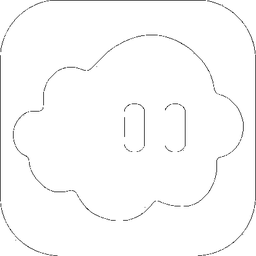
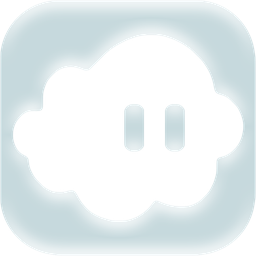
Stabilize client previews with official Dialedbase mark
Fix GSAP HMR opacity stickiness (black blank CTAs), drop Home pill
from Kim nav, and ship the official Dialedbase logo in footer credits.

diff --git a/_apps/kim-logistics/src/components/HeroStage.tsx b/_apps/kim-logistics/src/components/HeroStage.tsx
@@ -19,19 +19,24 @@ export function HeroStage() {
       if (!root.current || !media.current || !copy.current) return;
       if (window.matchMedia("(prefers-reduced-motion: reduce)").matches) return;
 
+      const lines = copy.current.querySelectorAll<HTMLElement>("[data-hero-line]");
+      // Never leave opacity stuck after HMR — reset first.
+      gsap.set(lines, { clearProps: "opacity,transform,filter" });
+
       const tl = gsap.timeline({ defaults: { ease: "power3.out" } });
-      tl.from(copy.current.querySelectorAll("[data-hero-line]"), {
-        y: 36,
-        opacity: 0,
-        duration: 0.85,
-        stagger: 0.08,
+      tl.from(lines, {
+        y: 28,
+        autoAlpha: 0,
+        duration: 0.75,
+        stagger: 0.07,
+        clearProps: "transform",
       }).from(
         media.current,
-        { clipPath: "inset(0 0 100% 0)", duration: 1.15, ease: "power4.out" },
-        0.15,
+        { clipPath: "inset(0 0 100% 0)", duration: 1.05, ease: "power4.out" },
+        0.12,
       );
     },
-    { scope: root },
+    { scope: root, dependencies: [] },
   );
 
   return (
@@ -79,7 +84,7 @@ export function HeroStage() {
             <Magnetic>
               <Link
                 href="/contact"
-                className="inline-flex items-center justify-center rounded-md bg-ink px-6 py-3.5 text-base font-semibold text-paper transition hover:bg-signal hover:text-ink"
+                className="inline-flex items-center justify-center rounded-md bg-ink px-6 py-3.5 text-base font-semibold text-white transition hover:bg-signal hover:text-ink"
               >
                 Get a free quote
               </Link>
@@ -103,8 +108,7 @@ export function HeroStage() {
 
         <div
           ref={media}
-          className="relative min-h-[22rem] overflow-hidden bg-ink lg:min-h-full"
-          style={{ clipPath: "inset(0 0 0 0)" }}
+          className="relative min-h-[22rem] overflow-hidden bg-[#111] lg:min-h-full"
         >
           <Image
             src="/images/fleet.jpg"
@@ -114,16 +118,13 @@ export function HeroStage() {
             className="object-cover object-[center_35%] grayscale-[0.15]"
             sizes="(max-width: 1024px) 100vw, 48vw"
           />
-          <div className="absolute inset-0 bg-gradient-to-t from-ink/50 via-transparent to-ink/20" />
+          <div className="absolute inset-0 bg-gradient-to-t from-black/50 via-transparent to-black/15" />
           <div className="absolute bottom-0 left-0 right-0 p-6 sm:p-8">
             <div className="flex items-end justify-between gap-4">
-              <p className="max-w-[14rem] text-sm font-medium uppercase tracking-[0.16em] text-paper/85">
+              <p className="max-w-[14rem] text-sm font-medium uppercase tracking-[0.16em] text-white/90">
                 Keep it moving
               </p>
-              <span
-                aria-hidden
-                className="mb-1 flex gap-1"
-              >
+              <span aria-hidden className="mb-1 flex gap-1">
                 {[0, 1, 2, 3, 4].map((i) => (
                   <span
                     key={i}

diff --git a/_apps/kim-logistics/src/components/Header.tsx b/_apps/kim-logistics/src/components/Header.tsx
@@ -31,23 +31,25 @@ export function Header() {
         </Link>
 
         <nav className="hidden items-center gap-1 lg:flex" aria-label="Primary">
-          {nav.map((item) => {
-            const active = pathname === item.href;
-            return (
-              <Link
-                key={item.href}
-                href={item.href}
-                className={cx(
-                  "rounded-md px-3 py-2 text-sm font-medium transition-colors",
-                  active
-                    ? "bg-ink text-paper"
-                    : "text-ink/80 hover:bg-field-deep/60 hover:text-ink",
-                )}
-              >
-                {item.label}
-              </Link>
-            );
-          })}
+          {nav
+            .filter((item) => item.href !== "/")
+            .map((item) => {
+              const active = pathname === item.href;
+              return (
+                <Link
+                  key={item.href}
+                  href={item.href}
+                  className={cx(
+                    "rounded-md px-3 py-2 text-sm font-medium transition-colors",
+                    active
+                      ? "bg-ink text-white"
+                      : "text-ink/80 hover:bg-field-deep/60 hover:text-ink",
+                  )}
+                >
+                  {item.label}
+                </Link>
+              );
+            })}
         </nav>
 
         <div className="flex items-center gap-2">

diff --git a/_apps/move-it-dan/src/components/DialedbaseCredit.tsx b/_apps/move-it-dan/src/components/DialedbaseCredit.tsx
@@ -8,20 +8,21 @@ export function DialedbaseCredit() {
       href={HREF}
       target="_blank"
       rel="noreferrer"
-      className="group inline-flex items-center gap-2.5 text-white/50 no-underline transition hover:text-white"
-      aria-label="Built by Dialedbase"
+      className="group inline-flex items-center gap-2.5 text-white/55 no-underline transition hover:text-white"
+      aria-label="Built by Dialedbase — opens dialedbase.com"
     >
-      <span className="relative h-7 w-7 overflow-hidden rounded-md">
+      <span className="relative h-8 w-8 shrink-0 overflow-hidden rounded-[0.55rem] shadow-[0_0_0_1px_rgba(255,255,255,0.08)] transition group-hover:shadow-[0_0_0_1px_rgba(255,255,255,0.22)]">
         <Image
-          src="/vendor/dialedbase-mark-chalk.png"
-          alt=""
+          src="/vendor/dialedbase-mark.png"
+          alt="Dialedbase"
           fill
-          className="object-contain opacity-70 transition group-hover:opacity-100"
-          sizes="28px"
+          className="object-cover"
+          sizes="32px"
         />
       </span>
       <span className="text-xs tracking-tight">
-        Built by <span className="font-semibold underline-offset-2 group-hover:underline">Dialedbase</span>
+        Built by{" "}
+        <span className="font-semibold underline-offset-4 group-hover:underline">Dialedbase</span>
       </span>
     </a>
   );

diff --git a/_apps/kim-logistics/src/components/DialedbaseCredit.tsx b/_apps/kim-logistics/src/components/DialedbaseCredit.tsx
@@ -8,20 +8,21 @@ export function DialedbaseCredit() {
       href={HREF}
       target="_blank"
       rel="noreferrer"
-      className="group inline-flex items-center gap-2.5 text-paper/50 transition hover:text-paper"
-      aria-label="Built by Dialedbase"
+      className="group inline-flex items-center gap-2.5 text-paper/55 transition hover:text-paper"
+      aria-label="Built by Dialedbase — opens dialedbase.com"
     >
-      <span className="relative h-7 w-7 overflow-hidden rounded-md">
+      <span className="relative h-8 w-8 shrink-0 overflow-hidden rounded-[0.55rem] shadow-[0_0_0_1px_rgba(255,255,255,0.08)] transition group-hover:shadow-[0_0_0_1px_rgba(255,255,255,0.22)]">
         <Image
-          src="/vendor/dialedbase-mark-chalk.png"
-          alt=""
+          src="/vendor/dialedbase-mark.png"
+          alt="Dialedbase"
           fill
-          className="object-contain opacity-70 transition group-hover:opacity-100"
-          sizes="28px"
+          className="object-cover"
+          sizes="32px"
         />
       </span>
       <span className="text-sm tracking-tight">
-        Built by <span className="font-semibold underline-offset-2 group-hover:underline">Dialedbase</span>
+        Built by{" "}
+        <span className="font-semibold underline-offset-4 group-hover:underline">Dialedbase</span>
       </span>
     </a>
   );

diff --git a/_apps/move-it-dan/src/components/HeroStage.tsx b/_apps/move-it-dan/src/components/HeroStage.tsx
@@ -18,6 +18,9 @@ export function HeroStage() {
       if (!root.current || !media.current || !copy.current) return;
       if (window.matchMedia("(prefers-reduced-motion: reduce)").matches) return;
 
+      const lines = copy.current.querySelectorAll<HTMLElement>("[data-hero-line]");
+      gsap.set(lines, { clearProps: "opacity,transform,filter,visibility" });
+
       const tl = gsap.timeline({ defaults: { ease: "power3.out" } });
       tl.fromTo(
         media.current,
@@ -25,8 +28,8 @@ export function HeroStage() {
         { scale: 1.02, duration: 1.8 },
         0,
       ).from(
-        copy.current.querySelectorAll("[data-hero-line]"),
-        { y: 40, opacity: 0, duration: 0.9, stagger: 0.1 },
+        lines,
+        { y: 32, autoAlpha: 0, duration: 0.85, stagger: 0.09, clearProps: "transform" },
         0.2,
       );
 

diff --git a/frontend/src/components/Footer.jsx b/frontend/src/components/Footer.jsx
@@ -78,11 +78,11 @@ const Footer = () => {
               aria-label="Dialedbase home"
             >
               <img
-                src="/images/dialedbase-mark-chalk.png"
-                alt=""
-                className="h-6 w-6 rounded-md object-contain opacity-80 group-hover:opacity-100"
+                src="/images/dialedbase-mark.png"
+                alt="Dialedbase"
+                className="h-7 w-7 rounded-[0.5rem] object-cover shadow-[0_0_0_1px_rgba(255,255,255,0.1)]"
               />
-              <span className="font-medium underline-offset-2 group-hover:underline">Dialedbase</span>
+              <span className="font-medium underline-offset-4 group-hover:underline">Dialedbase</span>
             </a>
             <span>· © {new Date().getFullYear()}</span>
           </div>
